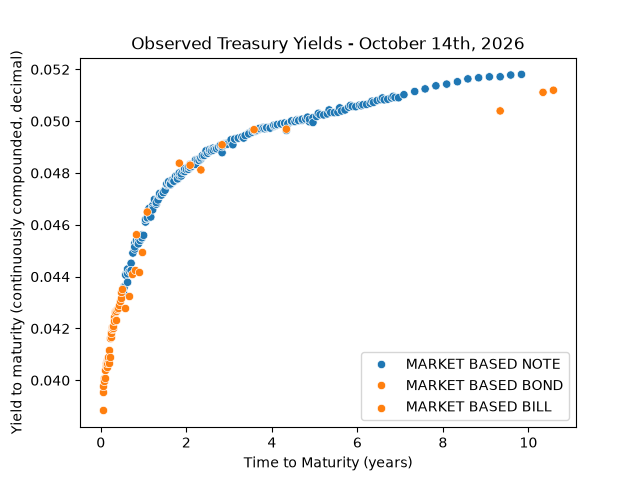
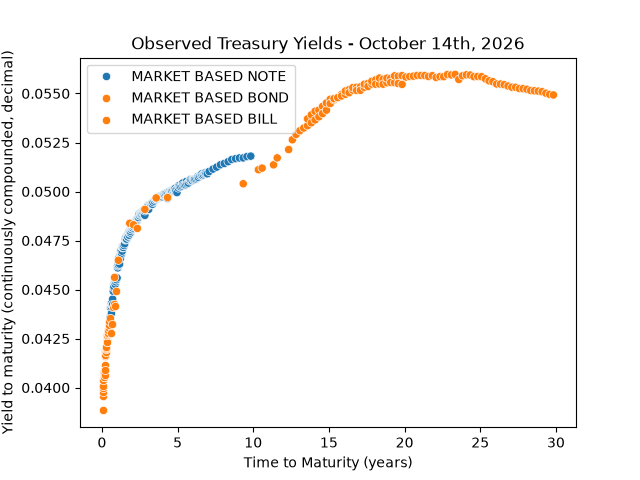
filter off

diff --git a/data_parser.py b/data_parser.py
@@ -61,22 +61,19 @@ plt.savefig("10-14-26_zero_rates_observed.png")
 
 
 # Coupon securities (notes and bonds)
-min_coupon_maturity_days = 91  # drop coupon securities with < 3 months to maturity (GSW 2007)
-max_maturity_years = 11  # keep a little past 10 years so the 10-year point is supported by data
+min_coupon_maturity_days = 91  # drop coupon securities with < 3 months to maturity (GSW 2007, rule ii)
+# no upper maturity cap: GSW fit to the entire maturity range of outstanding notes and bonds
 settle_date = start_date  # prices are as of 10/14/2026
 
 coupons = df[df['SECURITY TYPE'].isin(['MARKET BASED NOTE', 'MARKET BASED BOND'])].copy()
 coupons = coupons.dropna(subset=['MATURITY DATE'])
-coupons = coupons[(coupons['TIME TO MATURITY'] >= min_coupon_maturity_days) &
-                  (coupons['TIME TO MATURITY'] <= max_maturity_years * year_day_count)].copy()
+coupons = coupons[coupons['TIME TO MATURITY'] >= min_coupon_maturity_days].copy()
 
 
 def coupon_schedule(maturity, settle):
     """Return (previous coupon date, list of remaining coupon dates) for a semiannual security.
 
-    Dates are generated by stepping back from maturity in 6-month multiples (not chained
-    offsets, which would drift). Month-end maturities keep month-end coupons, e.g. 4/30 -> 10/31.
-    A coupon falling exactly on the settle date counts as already paid.
+    Dates are generated by stepping back from maturity in 6-month multiples. 
     """
     month_end = maturity.is_month_end
     remaining = []
@@ -107,7 +104,7 @@ def cash_flow_record(rate, maturity, settle):
 records = [cash_flow_record(r, m, settle_date) for r, m in zip(coupons['RATE'], coupons['MATURITY DATE'])]
 coupons = coupons.join(pd.DataFrame(records, index=coupons.index))
 
-# quoted prices are clean; discounted cash flows are worth the dirty (invoice) price
+# quoted prices are clean; discounted cash flows are worth the "dirty" (invoice) price
 coupons['DIRTY PRICE'] = coupons['PRICE'] + coupons['ACCRUED']
 
 print(coupons[['CUSIP', 'SECURITY TYPE', 'RATE', 'MATURITY DATE', 'PREV COUPON', 'NEXT COUPON',
